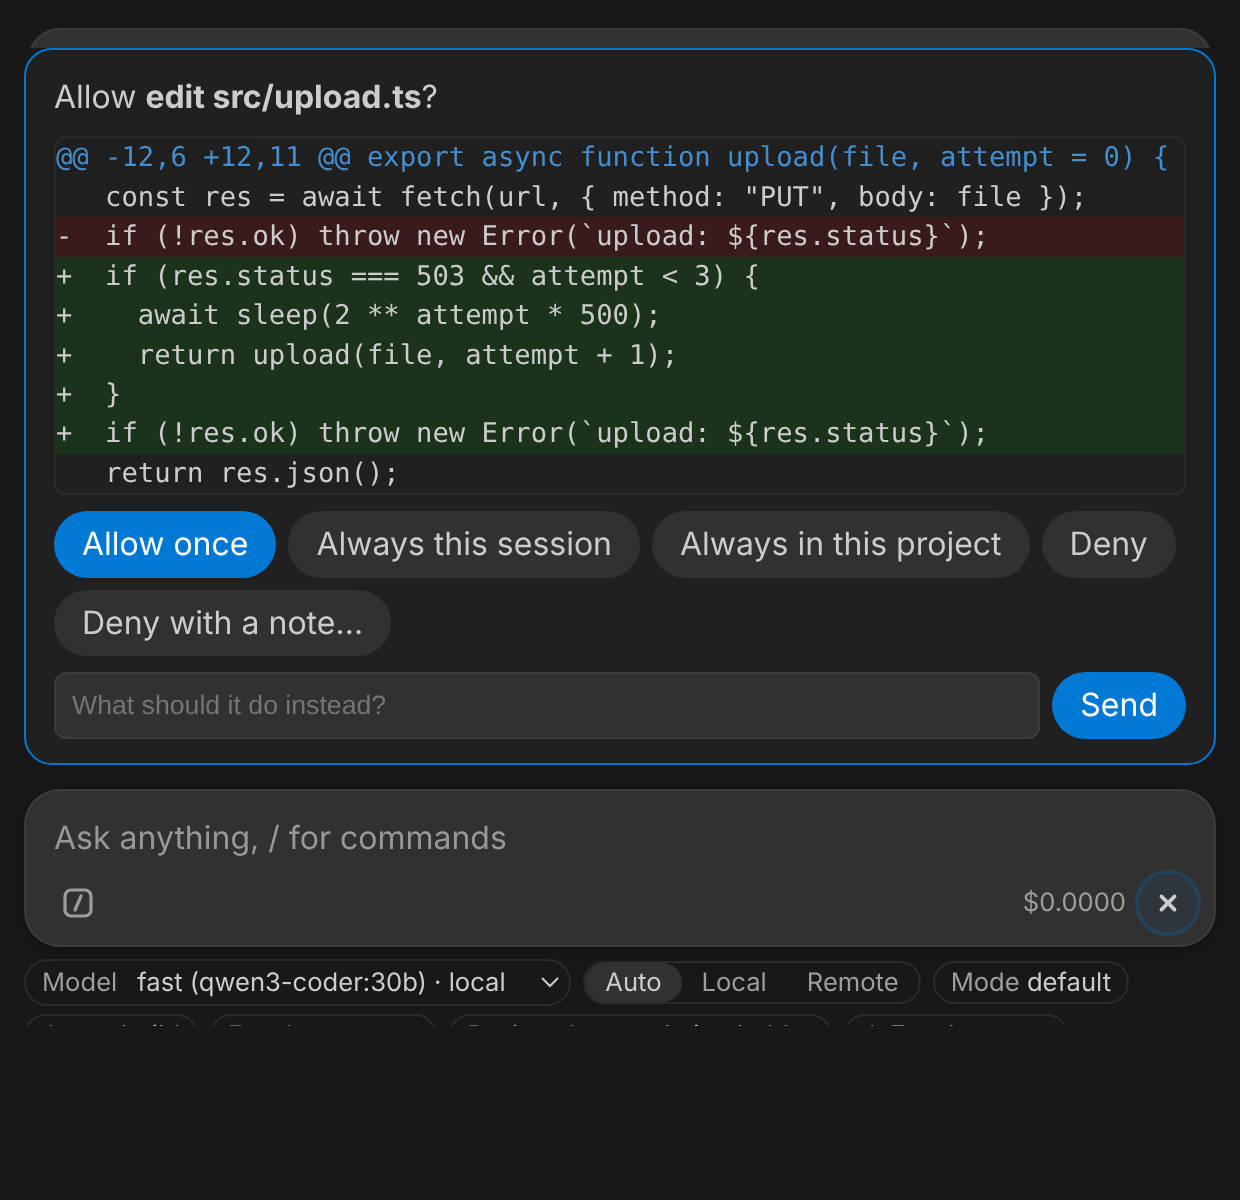
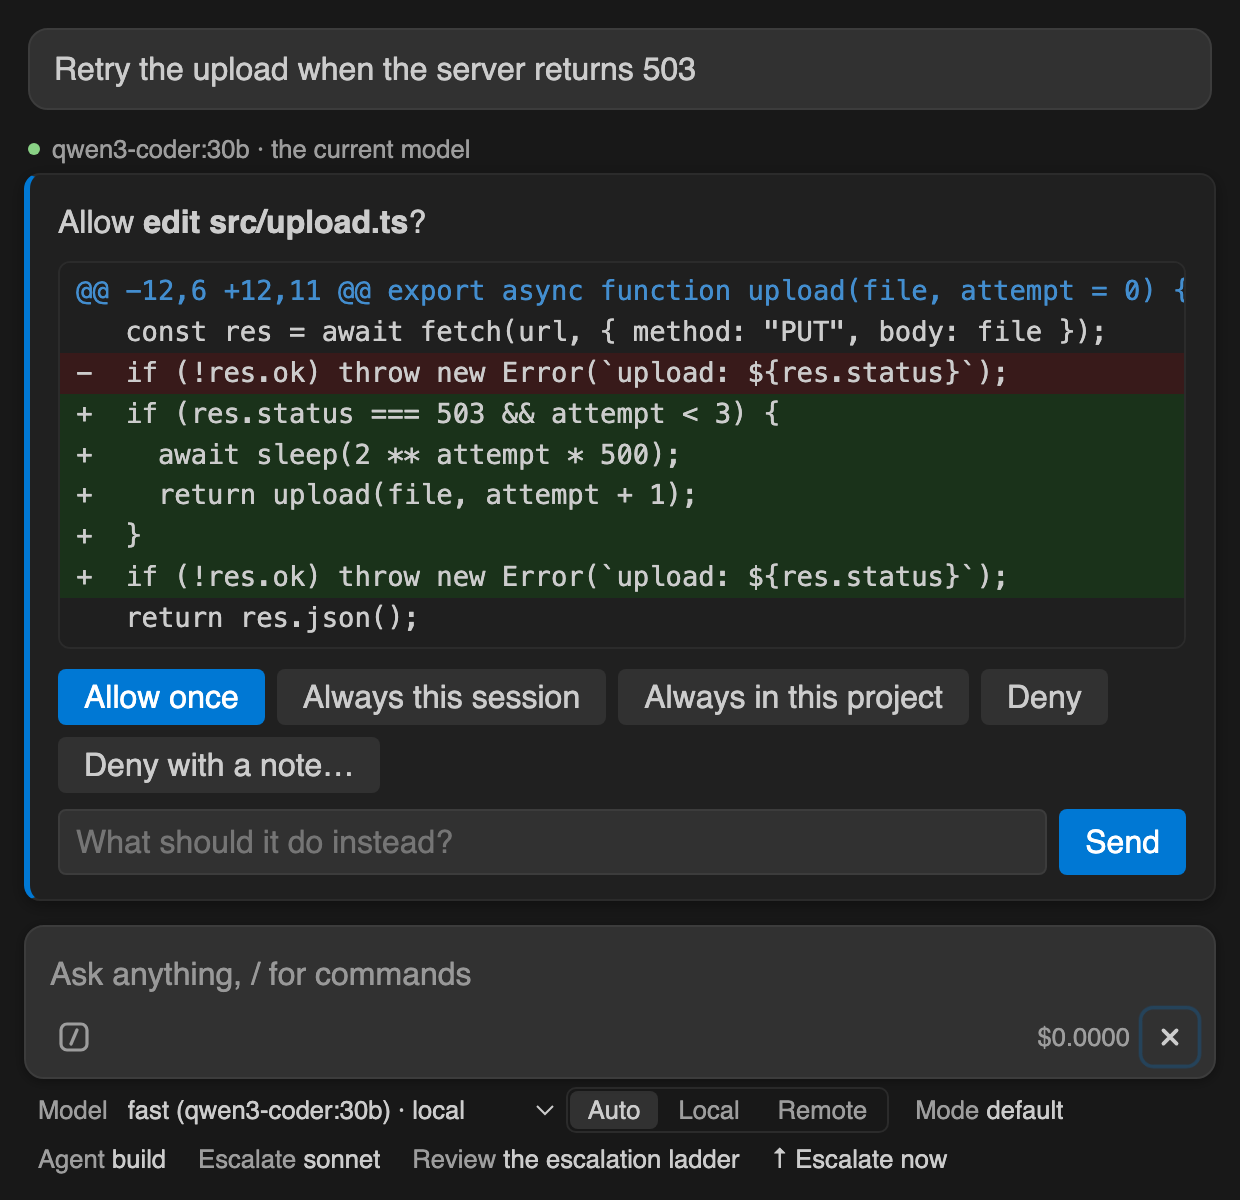
style(vscode): calmer, more native chat view
Buttons take VS Code's own shape instead of large pills; permission and
escalation prompts are cards with an accent edge; the controls under the
composer are a quiet toolbar that outlines on hover; the transcript gets
room between the user's message, tool work, and the answer. The escalation
reason moves to its own line. Screenshots regenerated.

diff --git a/apps/vscode/src/webview/styles.ts b/apps/vscode/src/webview/styles.ts
@@ -18,33 +18,37 @@ export const STYLES = `
   kbd { font-family: var(--vscode-editor-font-family); font-size: .9em; padding: 0 5px; border-radius: 4px; border: 1px solid var(--vscode-widget-border, var(--vscode-panel-border)); background: var(--vscode-keybindingLabel-background, transparent); color: var(--vscode-keybindingLabel-foreground, inherit); }
 
   /* Transcript */
-  .user { margin: 16px 0 10px; padding: 8px 13px; border-radius: 16px; white-space: pre-wrap; line-height: 1.45; background: var(--vscode-input-background); border: 1px solid var(--vscode-input-border, var(--vscode-panel-border)); }
+  .user { margin: 20px 0 12px; padding: 8px 12px; border-radius: 10px; white-space: pre-wrap; line-height: 1.45; background: var(--vscode-input-background); border: 1px solid var(--vscode-input-border, var(--vscode-panel-border)); }
   #log > .user:first-child { margin-top: 4px; }
-  .assistant { white-space: pre-wrap; margin: 6px 0; line-height: 1.55; }
+  .assistant { white-space: pre-wrap; margin: 10px 0; line-height: 1.55; }
   .assistant.md { white-space: normal; }
-  .md p { margin: 6px 0; } .md ul, .md ol { margin: 6px 0; padding-left: 20px; } .md li { margin: 2px 0; }
+  .md p { margin: 8px 0; } .md > :first-child { margin-top: 0; } .md > :last-child { margin-bottom: 0; } .md ul, .md ol { margin: 6px 0; padding-left: 20px; } .md li { margin: 2px 0; }
   .md h1, .md h2, .md h3 { font-size: 1.05em; margin: 12px 0 4px; }
   .md code { font-family: var(--vscode-editor-font-family); font-size: .92em; background: var(--vscode-textCodeBlock-background); padding: 1px 4px; border-radius: 4px; }
   .md table { border-collapse: collapse; margin: 6px 0; } .md td, .md th { border: 1px solid var(--vscode-panel-border); padding: 3px 8px; }
   .md a { color: var(--vscode-textLink-foreground); text-decoration: none; } .md a:hover { text-decoration: underline; }
   .md blockquote { margin: 6px 0; padding-left: 10px; border-left: 3px solid var(--vscode-textBlockQuote-border); color: var(--vscode-descriptionForeground); }
-  .code { border: 1px solid var(--vscode-panel-border); border-radius: 6px; margin: 8px 0; overflow: hidden; background: var(--vscode-textCodeBlock-background); }
-  .code-bar { display: flex; justify-content: space-between; align-items: center; padding: 3px 8px; font-size: .8em; color: var(--vscode-descriptionForeground); border-bottom: 1px solid var(--vscode-panel-border); }
-  .code pre { margin: 0; padding: 8px 10px; overflow-x: auto; } .code pre code { background: none; padding: 0; }
+  .code { border: 1px solid var(--vscode-panel-border); border-radius: 8px; margin: 10px 0; overflow: hidden; background: var(--vscode-textCodeBlock-background); }
+  .code-bar { display: flex; justify-content: space-between; align-items: center; padding: 3px 6px 3px 10px; font-size: .75em; letter-spacing: .03em; text-transform: lowercase; color: var(--vscode-descriptionForeground); border-bottom: 1px solid var(--vscode-panel-border); }
+  .code-bar button.link { color: var(--vscode-descriptionForeground); padding: 1px 6px; border-radius: 4px; }
+  .code-bar button.link:hover { color: var(--vscode-foreground); background: var(--vscode-toolbar-hoverBackground); }
+  .code pre { margin: 0; padding: 10px 12px; line-height: 1.5; overflow-x: auto; } .code pre code { background: none; padding: 0; }
   button.link { background: none; border: none; color: var(--vscode-textLink-foreground); padding: 0 4px; }
   .image { display: block; width: fit-content; margin: 6px 0; font-size: .85em; color: var(--vscode-descriptionForeground); }
   .image img { max-width: 160px; max-height: 120px; border-radius: 8px; border: 1px solid var(--vscode-panel-border); object-fit: cover; }
-  details.thinking { margin: 6px 0; color: var(--vscode-descriptionForeground); }
+  details.thinking { margin: 4px 0 6px; color: var(--vscode-descriptionForeground); }
   details.thinking > summary { cursor: pointer; list-style: none; font-size: .88em; user-select: none; }
   details.thinking > summary::-webkit-details-marker { display: none; }
   details.thinking > summary:hover { color: var(--vscode-foreground); }
   details.thinking > summary::after { content: ' ›'; }
   details.thinking[open] > summary::after { content: ' ⌄'; }
   .reasoning { font-style: italic; white-space: pre-wrap; margin: 4px 0 8px 6px; padding-left: 10px; border-left: 2px solid var(--vscode-panel-border); line-height: 1.5; }
-  .route { display: inline-flex; align-items: center; gap: 5px; font-size: .8em; color: var(--vscode-descriptionForeground); margin: 8px 0 2px; }
+  .route { display: flex; align-items: center; gap: 6px; font-size: .8em; color: var(--vscode-descriptionForeground); margin: 4px 0 6px; }
   .route::before { content: ""; width: 6px; height: 6px; border-radius: 50%; }
   .route.local::before { background: var(--vscode-charts-green); } .route.remote::before { background: var(--vscode-charts-yellow); }
-  .tool, .subagent { font-family: var(--vscode-editor-font-family); font-size: .88em; margin: 3px 0; }
+  /* Answers that follow tool work get room, so the two don't read as one block. */
+  :is(.tool, .detail, .output, details.explore, details.subagent) + .assistant { margin-top: 14px; }
+  .tool, .subagent { font-family: var(--vscode-editor-font-family); font-size: .88em; margin: 4px 0; line-height: 1.5; }
   details.subagent > summary { cursor: pointer; list-style: none; }
   details.subagent > summary::-webkit-details-marker { display: none; }
   details.subagent > .children { margin: 4px 0 8px 6px; padding-left: 10px; border-left: 2px solid var(--vscode-panel-border); }
@@ -53,50 +57,54 @@ export const STYLES = `
   .info { color: var(--vscode-descriptionForeground); white-space: pre-wrap; font-family: var(--vscode-editor-font-family); font-size: .88em; margin: 6px 0; padding: 2px 0 2px 10px; border-left: 2px solid var(--vscode-panel-border); }
   .tool .private { color: var(--vscode-charts-blue); font-size: 0.9em; }
   .tool + .detail { margin-left: 1.4em; font-size: .85em; }
-  .output { font-family: var(--vscode-editor-font-family); font-size: .82em; white-space: pre; overflow-x: auto; color: var(--vscode-descriptionForeground); margin: 2px 0 4px 2.4em; }
+  .output { font-family: var(--vscode-editor-font-family); font-size: .82em; white-space: pre; overflow-x: auto; color: var(--vscode-descriptionForeground); margin: 2px 0 6px 2.4em; }
   details.tool-diff { margin-left: 1.4em; font-size: .85em; }
   details.tool-diff > summary, details.explore > summary { cursor: pointer; color: var(--vscode-descriptionForeground); }
-  details.explore { font-family: var(--vscode-editor-font-family); font-size: .88em; margin: 3px 0; }
+  details.explore { font-family: var(--vscode-editor-font-family); font-size: .88em; margin: 4px 0; line-height: 1.5; }
   details.explore > summary { list-style: none; color: inherit; }
   details.explore > summary::-webkit-details-marker { display: none; }
   details.explore ul { margin: 2px 0 6px 1.4em; padding: 0; list-style: none; }
   .detail-inline { color: var(--vscode-descriptionForeground); }
   .prompt .feedback { display: flex; gap: 6px; margin-top: 8px; }
-  .prompt .feedback input { flex: 1; background: var(--vscode-input-background); color: var(--vscode-input-foreground); border: 1px solid var(--vscode-input-border, transparent); border-radius: 6px; padding: 4px 8px; }
+  .prompt .feedback input { flex: 1; font: inherit; background: var(--vscode-input-background); color: var(--vscode-input-foreground); border: 1px solid var(--vscode-input-border, transparent); border-radius: 4px; padding: 4px 8px; }
+  .prompt .feedback input:focus { outline: 1px solid var(--vscode-focusBorder); outline-offset: -1px; }
   .review { margin: 6px 0; }
   .review.skipped { color: var(--vscode-descriptionForeground); }
   .review ul { margin: 2px 0 2px 1.4em; padding: 0; }
   .review li.bug { color: var(--vscode-errorForeground); }
   .review li.nit { color: var(--vscode-descriptionForeground); }
-  .diff { font-family: var(--vscode-editor-font-family); font-size: .85em; max-height: 45vh; overflow: auto; margin: 8px 0; white-space: pre; border: 1px solid var(--vscode-panel-border); border-radius: 6px; }
+  .diff { font-family: var(--vscode-editor-font-family); font-size: .85em; line-height: 1.5; max-height: 45vh; overflow: auto; margin: 8px 0; padding: 4px 0; white-space: pre; border: 1px solid var(--vscode-panel-border); border-radius: 6px; background: var(--vscode-editor-background); }
+  .diff > * { padding: 0 8px; }
   .diff .add { background: var(--vscode-diffEditor-insertedLineBackground, rgba(0,160,0,.15)); }
   .diff .del { background: var(--vscode-diffEditor-removedLineBackground, rgba(200,0,0,.15)); }
   .diff .hunk { color: var(--vscode-textLink-foreground); opacity: .8; }
 
   /* Permission and escalation prompts */
-  .prompt { margin: 0 12px 8px; padding: 12px 14px; border-radius: 14px; border: 1px solid var(--vscode-focusBorder); background: var(--vscode-editorWidget-background); line-height: 1.45; }
-  .prompt .actions { display: flex; flex-wrap: wrap; gap: 6px; margin-top: 8px; }
+  .prompt { margin: 0 12px 8px; padding: 12px 14px; border-radius: 8px; border: 1px solid var(--vscode-widget-border, var(--vscode-panel-border)); border-left: 3px solid var(--vscode-focusBorder); background: var(--vscode-editorWidget-background); box-shadow: 0 2px 8px var(--vscode-widget-shadow, rgba(0,0,0,.2)); line-height: 1.45; }
+  .prompt .actions { display: flex; flex-wrap: wrap; gap: 6px; margin-top: 10px; }
   .prompt .estimate { color: var(--vscode-charts-yellow); }
   .prompt .hint { color: var(--vscode-descriptionForeground); margin-top: 4px; }
+  .prompt .hint::first-letter { text-transform: uppercase; }
   .prompt.plan { max-height: 50vh; overflow-y: auto; }
   .prompt .plan-title { font-weight: 600; margin-bottom: 4px; }
-  .todos { margin: 0 12px 6px; padding: 8px 12px; border-radius: 12px; background: var(--vscode-editorWidget-background); border: 1px solid var(--vscode-panel-border); }
+  .todos { margin: 0 12px 6px; padding: 8px 12px; border-radius: 8px; background: var(--vscode-editorWidget-background); border: 1px solid var(--vscode-panel-border); }
   .todo { line-height: 1.6; }
   .todo.done { color: var(--vscode-descriptionForeground); text-decoration: line-through; }
   .todo.in_progress { font-weight: 600; color: var(--vscode-textLink-foreground); }
   .queued { display: flex; gap: 8px; align-items: center; margin: 0 12px 6px; padding: 5px 12px; border-radius: 999px; background: var(--vscode-editorWidget-background); border: 1px dashed var(--vscode-panel-border); color: var(--vscode-descriptionForeground); font-size: .92em; }
   .queued .text { flex: 1; overflow: hidden; text-overflow: ellipsis; white-space: nowrap; }
   .queued .link { background: none; border: none; color: var(--vscode-textLink-foreground); cursor: pointer; padding: 0; }
-  .btn.now { margin-right: 6px; padding: 3px 12px; font-size: .9em; border: 1px solid var(--vscode-button-background); background: transparent; color: var(--vscode-foreground); }
+  .btn.now { margin-right: 6px; padding: 2px 10px; font-size: .9em; border: 1px solid var(--vscode-button-background); background: transparent; color: var(--vscode-foreground); }
   .btn.now:hover { background: var(--vscode-button-background); color: var(--vscode-button-foreground); }
-  .btn { background: var(--vscode-button-background); color: var(--vscode-button-foreground); border: none; padding: 5px 14px; border-radius: 999px; cursor: pointer; }
+  .btn { background: var(--vscode-button-background); color: var(--vscode-button-foreground); border: 1px solid var(--vscode-button-border, transparent); padding: 4px 12px; border-radius: 4px; line-height: 18px; cursor: pointer; }
+  .btn:focus-visible { outline: 1px solid var(--vscode-focusBorder); outline-offset: 2px; }
   .btn:hover { background: var(--vscode-button-hoverBackground); }
   .btn.secondary { background: var(--vscode-button-secondaryBackground); color: var(--vscode-button-secondaryForeground); }
   .btn.secondary:hover { background: var(--vscode-button-secondaryHoverBackground); }
 
   /* Composer */
   footer { padding: 4px 12px 10px; }
-  .composer { position: relative; border: 1px solid var(--vscode-input-border, var(--vscode-panel-border)); border-radius: 18px; background: var(--vscode-input-background); padding: 8px 8px 6px 14px; box-shadow: 0 1px 6px var(--vscode-widget-shadow, rgba(0,0,0,.18)); transition: border-color .15s, box-shadow .15s; }
+  .composer { position: relative; border: 1px solid var(--vscode-input-border, var(--vscode-panel-border)); border-radius: 10px; background: var(--vscode-input-background); padding: 8px 8px 6px 12px; box-shadow: 0 1px 6px var(--vscode-widget-shadow, rgba(0,0,0,.18)); transition: border-color .15s, box-shadow .15s; }
   .composer:focus-within { border-color: var(--vscode-focusBorder); box-shadow: 0 0 0 1px var(--vscode-focusBorder), 0 2px 10px var(--vscode-widget-shadow, rgba(0,0,0,.22)); }
   textarea { display: block; width: 100%; box-sizing: border-box; resize: none; min-height: 22px; max-height: 40vh; overflow-y: auto; background: transparent; color: var(--vscode-input-foreground); border: none; outline: none; padding: 4px 4px 4px 0; font: inherit; line-height: 1.45; }
   textarea::placeholder { color: var(--vscode-input-placeholderForeground); }
@@ -106,14 +114,14 @@ export const STYLES = `
   .icon:hover, .icon.on { background: var(--vscode-toolbar-hoverBackground); color: var(--vscode-foreground); }
   .icon svg { width: 16px; height: 16px; }
   #status { font-size: .8em; color: var(--vscode-descriptionForeground); white-space: nowrap; overflow: hidden; text-overflow: ellipsis; margin-right: 4px; }
-  .send { position: relative; width: 30px; height: 30px; border-radius: 50%; border: none; display: inline-flex; align-items: center; justify-content: center; background: var(--vscode-button-background); color: var(--vscode-button-foreground); flex: none; cursor: pointer; transition: background .15s, transform .1s, opacity .15s; }
+  .send { position: relative; width: 28px; height: 28px; border-radius: 6px; border: none; display: inline-flex; align-items: center; justify-content: center; background: var(--vscode-button-background); color: var(--vscode-button-foreground); flex: none; cursor: pointer; transition: background .15s, transform .1s, opacity .15s; }
   .send:hover:not(:disabled) { background: var(--vscode-button-hoverBackground); }
   .send:active:not(:disabled) { transform: scale(.94); }
   .send:disabled { background: transparent; color: var(--vscode-descriptionForeground); box-shadow: inset 0 0 0 1px var(--vscode-panel-border); cursor: default; }
   .send svg { width: 15px; height: 15px; }
   /* While the model works: an X inside a slowly pulsing ring. */
   .send.stop { background: var(--vscode-button-secondaryBackground); color: var(--vscode-button-secondaryForeground); }
-  .send.stop::after { content: ''; position: absolute; inset: -3px; border-radius: 50%; border: 2px solid var(--vscode-button-background); opacity: .6; animation: sb-pulse 1.4s ease-in-out infinite; }
+  .send.stop::after { content: ''; position: absolute; inset: -3px; border-radius: 8px; border: 2px solid var(--vscode-button-background); opacity: .6; animation: sb-pulse 1.4s ease-in-out infinite; }
   @keyframes sb-pulse { 0%, 100% { transform: scale(.92); opacity: .25; } 50% { transform: scale(1.04); opacity: .7; } }
   @media (prefers-reduced-motion: reduce) { .send.stop::after { animation: none; } }
 
@@ -125,11 +133,11 @@ export const STYLES = `
   .pending-image .remove { position: absolute; top: -6px; right: -6px; width: 18px; height: 18px; border-radius: 50%; border: none; padding: 0; font-size: 10px; line-height: 18px; cursor: pointer; background: var(--vscode-badge-background); color: var(--vscode-badge-foreground); }
   .chips { display: flex; flex-wrap: wrap; gap: 4px; }
   .chips:not(:empty) { margin: 0 0 4px; }
-  .chip { font-size: .8em; padding: 1px 8px; border-radius: 10px; border: 1px solid var(--vscode-panel-border); background: transparent; color: var(--vscode-descriptionForeground); max-width: 100%; overflow: hidden; text-overflow: ellipsis; white-space: nowrap; }
+  .chip { font-size: .8em; padding: 1px 8px; border-radius: 4px; border: 1px solid var(--vscode-panel-border); background: transparent; color: var(--vscode-descriptionForeground); max-width: 100%; overflow: hidden; text-overflow: ellipsis; white-space: nowrap; }
   .chip.on { background: var(--vscode-badge-background); color: var(--vscode-badge-foreground); border-color: transparent; }
 
   /* Slash command menu */
-  .menu { position: absolute; left: -1px; right: -1px; bottom: calc(100% + 6px); max-height: min(50vh, 340px); overflow-y: auto; padding: 4px; border-radius: 14px; z-index: 10; background: var(--vscode-quickInput-background, var(--vscode-editorWidget-background)); color: var(--vscode-quickInput-foreground, inherit); border: 1px solid var(--vscode-widget-border, var(--vscode-panel-border)); box-shadow: 0 4px 16px var(--vscode-widget-shadow, rgba(0,0,0,.3)); }
+  .menu { position: absolute; left: -1px; right: -1px; bottom: calc(100% + 6px); max-height: min(50vh, 340px); overflow-y: auto; padding: 4px; border-radius: 8px; z-index: 10; background: var(--vscode-quickInput-background, var(--vscode-editorWidget-background)); color: var(--vscode-quickInput-foreground, inherit); border: 1px solid var(--vscode-widget-border, var(--vscode-panel-border)); box-shadow: 0 4px 16px var(--vscode-widget-shadow, rgba(0,0,0,.3)); }
   .menu[hidden] { display: none; }
   .menu-group { font-size: .72em; font-weight: 600; letter-spacing: .04em; text-transform: uppercase; color: var(--vscode-descriptionForeground); padding: 8px 8px 3px; }
   .menu-group:first-child { padding-top: 4px; }
@@ -142,16 +150,17 @@ export const STYLES = `
   .menu-empty { padding: 8px; color: var(--vscode-descriptionForeground); }
 
   /* Routing and roles, under the composer */
-  .controls { display: flex; flex-wrap: wrap; align-items: center; gap: 4px 6px; margin-top: 6px; font-size: .8em; }
+  .controls { display: flex; flex-wrap: wrap; align-items: center; gap: 2px; margin-top: 4px; font-size: .8em; }
   .controls:empty { display: none; }
-  .segmented { display: inline-flex; border: 1px solid var(--vscode-panel-border); border-radius: 999px; overflow: hidden; }
-  .segmented button { background: transparent; color: var(--vscode-descriptionForeground); border: none; border-radius: 999px; padding: 2px 10px; }
+  .segmented { display: inline-flex; gap: 1px; padding: 1px; margin-right: 4px; border: 1px solid var(--vscode-panel-border); border-radius: 5px; }
+  .segmented button { background: transparent; color: var(--vscode-descriptionForeground); border: 1px solid transparent; border-radius: 4px; padding: 1px 8px; }
   .segmented button.on { background: var(--vscode-button-secondaryBackground); color: var(--vscode-button-secondaryForeground); }
-  .pill { background: transparent; color: var(--vscode-foreground); border: 1px solid var(--vscode-panel-border); border-radius: 999px; padding: 2px 8px; max-width: 100%; overflow: hidden; text-overflow: ellipsis; white-space: nowrap; }
-  .pill:hover, .segmented button:hover { border-color: var(--vscode-focusBorder); color: var(--vscode-foreground); }
+  .pill { background: transparent; color: var(--vscode-foreground); border: 1px solid transparent; border-radius: 4px; padding: 2px 6px; max-width: 100%; overflow: hidden; text-overflow: ellipsis; white-space: nowrap; }
+  .pill:hover, .segmented button:not(.on):hover { background: var(--vscode-toolbar-hoverBackground); color: var(--vscode-foreground); }
+  .pill:focus-visible, .segmented button:focus-visible { outline: 1px solid var(--vscode-focusBorder); outline-offset: -1px; }
   .pill .k { color: var(--vscode-descriptionForeground); }
   .pill .here { font-weight: 600; color: var(--vscode-charts-yellow); }
-  .pill.model { display: inline-flex; align-items: center; gap: 4px; padding: 0 2px 0 8px; }
+  .pill.model { display: inline-flex; align-items: center; gap: 4px; padding: 0 2px 0 6px; }
   .pill.model select { font: inherit; color: var(--vscode-foreground); background: transparent; border: none; padding: 2px 2px; max-width: 220px; text-overflow: ellipsis; cursor: pointer; }
   .pill.model select:focus { outline: 1px solid var(--vscode-focusBorder); border-radius: 4px; }
   .pill.model option { background: var(--vscode-dropdown-background); color: var(--vscode-dropdown-foreground); }
@@ -177,9 +186,12 @@ export const STYLES = `
   .tabs .badge { margin-left: 2px; font-size: .8em; padding: 0 4px; border-radius: 8px; background: var(--vscode-badge-background); color: var(--vscode-badge-foreground); }
   .dash { flex: 1; overflow-y: auto; padding: 10px 14px; }
   .dash-head { display: flex; align-items: center; justify-content: space-between; }
-  .dash h2 { font-size: 1.05em; margin: 4px 0; } .dash h3 { font-size: .95em; margin: 14px 0 4px; color: var(--vscode-descriptionForeground); }
+  .dash-head { margin-bottom: 8px; }
+  .dash h2 { font-size: 1.05em; margin: 4px 0; } .dash h3 { font-size: .72em; font-weight: 600; letter-spacing: .04em; text-transform: uppercase; margin: 18px 0 6px; color: var(--vscode-descriptionForeground); }
   .cards { list-style: none; margin: 0; padding: 0; display: flex; flex-direction: column; gap: 6px; }
-  .card { display: flex; align-items: center; gap: 8px; padding: 8px 10px; border: 1px solid var(--vscode-panel-border); border-radius: 8px; }
+  .card { display: flex; align-items: center; gap: 8px; padding: 8px 10px; border: 1px solid var(--vscode-panel-border); border-radius: 8px; transition: background .1s; }
+  .card:hover { background: var(--vscode-list-hoverBackground); }
+  .card .btn { padding: 2px 10px; font-size: .9em; }
   .card.on { border-color: var(--vscode-focusBorder); }
   .card .open { flex: 1; min-width: 0; display: flex; flex-direction: column; align-items: flex-start; gap: 2px; text-align: left; background: transparent; border: none; color: inherit; padding: 0; }
   .card .title { font-weight: 600; max-width: 100%; overflow: hidden; text-overflow: ellipsis; white-space: nowrap; }

diff --git a/apps/vscode/src/webview/render.ts b/apps/vscode/src/webview/render.ts
@@ -219,7 +219,7 @@ export function renderPrompt(view: ViewState): string {
   }
   const escl = view.escalations[0];
   if (escl)
-    return `<div class="prompt">Escalate to <b>${esc(escl.target.model)}</b>${escl.estimatedCostUsd !== undefined ? ` <span class="estimate">(${esc(estimateLabel(escl.estimatedCostUsd))})</span>` : ''}? ${esc(escl.reason)}<div class="actions"><button class="btn" data-esc="1">Escalate</button><button class="btn secondary" data-esc="0">Stay on the current model</button></div></div>`;
+    return `<div class="prompt">Escalate to <b>${esc(escl.target.model)}</b>${escl.estimatedCostUsd !== undefined ? ` <span class="estimate">(${esc(estimateLabel(escl.estimatedCostUsd))})</span>` : ''}?<div class="hint">${esc(escl.reason)}</div><div class="actions"><button class="btn" data-esc="1">Escalate</button><button class="btn secondary" data-esc="0">Stay on the current model</button></div></div>`;
   return '';
 }
 

diff --git a/apps/vscode/src/webview/main.test.ts b/apps/vscode/src/webview/main.test.ts
@@ -130,6 +130,8 @@ test('an escalation asks to escalate or stay, not "remote or local"', async () =
   });
   expect($('#prompts').textContent).toContain('Escalate');
   expect($('#prompts').textContent).toContain('Stay on the current model');
+  // The reason is its own line, not run on after the question.
+  expect($('#prompts .hint')?.textContent).toBe('3 consecutive tool errors');
 });
 
 const type = (text: string) => {
